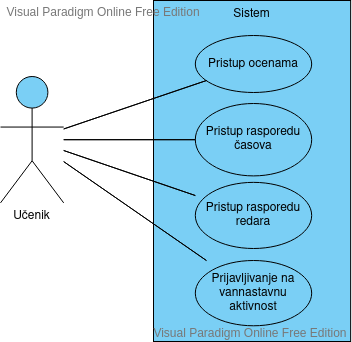
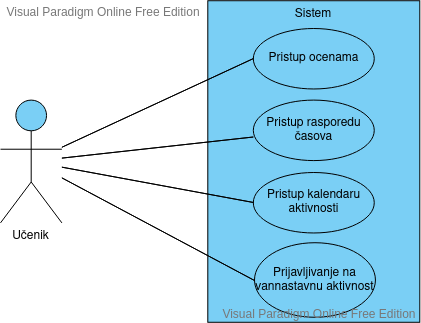
Manje izmene

diff --git a/Glavni/IS_škole.tex b/Glavni/IS_škole.tex
@@ -76,7 +76,7 @@ mogućnosti za rad u ovom sistemu.
 	\begin{enumerate}
 	\item \textbf{Učenik} \\
 	Učenici su najbrojniji korisnici ovog sistema, a ujedno i osnovni razlog njegovog postojanja. Svakom učeniku dodeljeno je odeljenje kojem pripada. Manipulacija podacima im je onemogućena i njihove mogućnosti uglavnom se svode na izdvajanje i pregled njima relevantnih informacija, kao i onemogućen pristup određenim informacijama koje su vezane za druge učenike. Neke od informacija kojima imaju pristup su: 
-pregled svojih ocena, rasporeda časova, rasporeda redara, spiska nastavnika i druge. Od omogućenih funkcionalnosti može se izdvojiti prijavljivanje na vannastavne aktivnosti.
+pregled svojih ocena, rasporeda časova, kalendara aktivnosti, spiska nastavnika i druge. Od omogućenih funkcionalnosti može se izdvojiti prijavljivanje na vannastavne aktivnosti.
  
 	\item \textbf{Nastavnik} \\
 	Nastavnici predstavljaju predavače u školi. Na početku svake školske godine dodaju im se odeljenje kojima predaju, raspored časova kao i spisak predmeta koje te godine predaju. Ove informacije se mogu izmeniti u toku školske godine. Nastavnici su odgovorni za održavanje nastave i evidentiranje ocena i izostanaka učenika. Što se tiče manipulacije časovima, imaju mogućnost unošenja dopunskog ili dodatnog časa u raspored. Prilikom pregleda ocena učenika sistem nastavnicima omogućava viđenje samo ocena iz svog predmeta.
@@ -198,36 +198,39 @@ pregled svojih ocena, rasporeda časova, rasporeda redara, spiska nastavnika i d
 \end{figure}
 
 \newpage
-\subsubsection{Slučaj upotrebe: Učenik pristupa rasporedu redara} 
-1. \textbf{Kratak opis:} Učenik pristupa rasporedu redara odeljenja kom pripada za željenu nedelju. \\ 
+\subsubsection{Slučaj upotrebe: Učenik pristupa kalendaru aktivnosti} 
+1. \textbf{Kratak opis:} Učenik pristupa kalendaru aktivnosti odabranog meseca. \\ 
 
 2. \textbf{Učesnici:}
 \begin{enumerate} [label=(\alph*)]
 \item Učenik
 \end{enumerate} 
 
-3. \textbf{Preduslov:} Učenik je registrovani korisnik sistema. Učenik ima pristup Internetu. Sistem je u funkciji. Učenik je dodeljen odeljenju. \\
+3. \textbf{Preduslov:} Učenik je registrovani korisnik sistema. Učenik ima pristup Internetu. Sistem je u funkciji. \\
 
-4. \textbf{Postuslov:} Učenik je pristupio rasporedu redara i pročitao potrebne informacije. \\
+4. \textbf{Postuslov:} Učenik je pristupio kalendaru aktivnosti i pročitao potrebne informacije. \\
 
 5. \textbf{Osnovni tok:} 
 \begin{enumerate} [label=(\alph*)]
-\item Učenik pristupa početnoj stranici sa rasporedom redara svog odeljenja
-\item Učenik se pritiskom na dugme (``Levo''/``Desno'') kreće do rasporeda redara za traženu nedelju
-\item Sistem prikazuje raspored redara za traženu nedelju
+\item Učenik pristupa početnoj stranici kalendara aktivnosti
+\item Sistem prikazuje učeniku padajući meni za izbor godine i meseca
+\item Učenik pritiskom na željene opcije bira godinu i mesec
+\item Učenik pritiskom na dugme potvrđuje unos 
+\item Sistem obrađuje zahtev
+\item Sistem prikazuje kalendar aktivnosti za odabrani mesec i godinu
 \end{enumerate}
 
 
 6. \textbf{Alternativni tokovi:}
 \begin{enumerate} [label=(\roman*)]
-\item Raspored redara za traženu nedelju ne postoji - Ako u koraku (c) sistem utvrdi da raspored redara za traženu nedelju nije određen, obaveštava učenika odgovarajućom porukom. Proces se nastavlja iz koraka (b).
+\item Kalendar aktivnosti ne postoji - Ako u koraku (e) sistem utvrdi kalendar aktivnosti za odabrani mesec i godinu nije kreiran obaveštava učenika odgovarajućom porukom. Proces se nastavlja iz koraka (b).
 \end{enumerate}
 
 7. \textbf{Podtokovi}: - \\
 
 8. \textbf{Specijalni zahtevi}: - \\
 
-9. \textbf{Dodatne informacije}:  U toku nedelje dužnost redara u odeljenju obavlja dvoje učenika tog odeljenja. \\
+9. \textbf{Dodatne informacije}: Pre početku školske godine administrator kreira kalendar aktivnosti za nastupajuću školsku godinu. \\
 
 
 \subsubsection{Slučaj upotrebe: Učenik se prijavljuje na vannastavnu aktivnost} 
@@ -946,7 +949,7 @@ P2:
 9. \textbf{Dodatne informacije}: Podaci o korisniku uneti su u sistem prilikom kreiranja naloga. Sistem onemogućuje izmenu JMBG korisnika. \\
 
 \subsubsection{Slučaj upotrebe: Administrator kreira kalendar aktivnosti}
-1. \textbf{Kratak opis:} Na početku školske godine administrator pristupa kalendaru i popunjava ga aktivnostima za svaki datum do kraja školske godine u skladu sa planom rada škole. Sistem validira i čuva unete podatke. Sistem obaveštava administratora o uspešnom kreiranju kalendara aktivnosti. \\ 
+1. \textbf{Kratak opis:} Pre početka školske godine administrator pristupa kalendaru i popunjava ga aktivnostima za svaki datum do kraja školske godine u skladu sa planom rada škole. Sistem validira i čuva unete podatke. Sistem obaveštava administratora o uspešnom kreiranju kalendara aktivnosti. \\ 
 
 2. \textbf{Učesnici:}
 \begin{enumerate} [label=(\alph*)]
